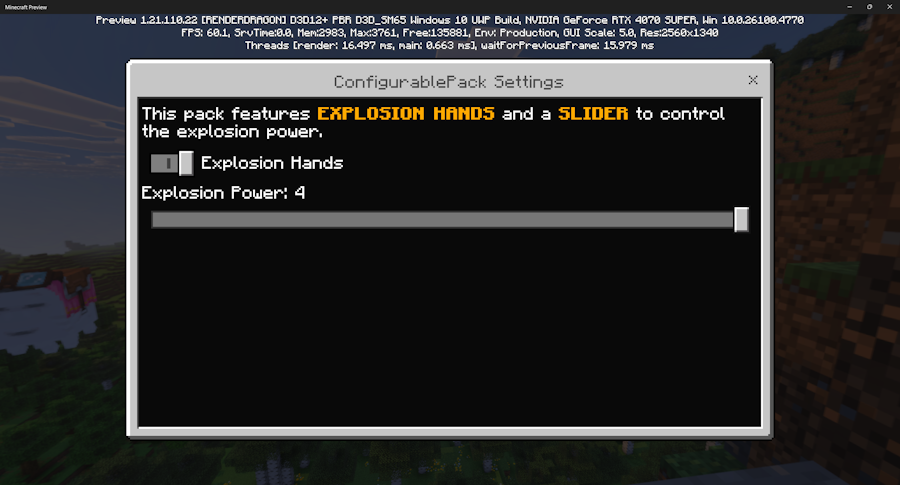
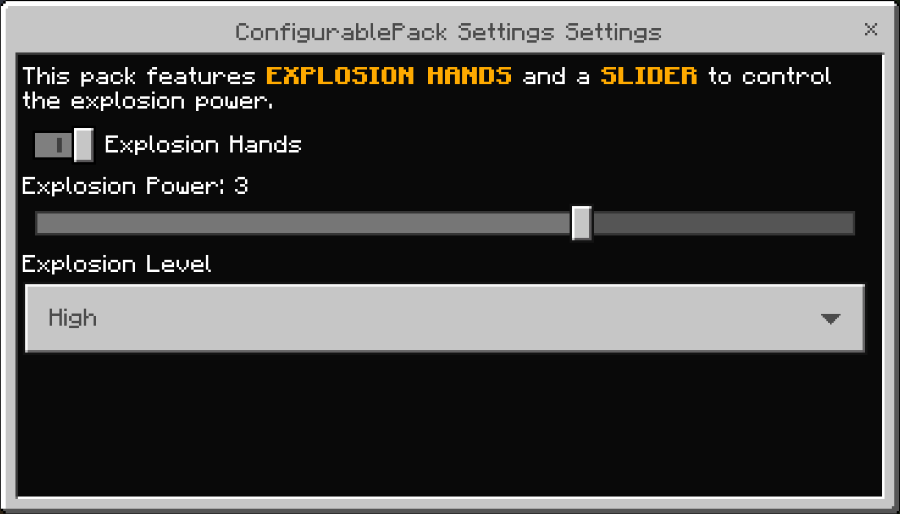
feat: update pack settings doc, add dropdown example and molang queries. (#2040)

diff --git a/creator/Documents/AddOns/CustomPackSettings.md b/creator/Documents/AddOns/CustomPackSettings.md
@@ -12,7 +12,7 @@ ms.date: 05/05/2025
 Many packs in Minecraft present broad gameplay experiences, and it's natural that you might want to let players tailor how that experience functions out in their world. For example, you can imagine a pack that has specific settings for how much treasure is dropped, or the mix of mobs that are spawned, or specific types of assists that might be given. Pack settings provides a consistent "meta-experience" across packs that can help players get just the gameplay experience they are looking for.
 
 > [!NOTE]
-> The pack settings capability is still experimental and subject to change, as of Minecraft preview versions 1.21.110. It may be significantly altered or even removed in future updates.
+> The pack settings capability for behavior packs is still experimental and subject to change, as of Minecraft preview versions 1.21.110. It may be significantly altered or even removed in future updates. Pack settings support for resource packs will be available in the next release.
 
 ### Elements of Custom Pack Settings
 
@@ -25,27 +25,43 @@ The custom pack settings can be applied to both behavior packs and resource pack
 An example settings section looks as follows:
 
 ```json
-[
-    {
-      "type": "label",
-      "text": "This pack features §l§6EXPLOSION HANDS§r and a §l§6SLIDER§r to control the explosion power."
-    },
-    {
-      "type": "toggle",
-      "text": "Explosion Hands",
-      "name": "mypack:explosion_hands",
-      "default": true
-    },
-    {
-      "type": "slider",
-      "text": "Explosion Power",
-      "name": "mypack:explosion_power",
-      "min": 1,
-      "max": 4,
-      "step": 1,
-      "default": 3
-    }
-  ],
+"settings": [
+  {
+    "type": "label",
+    "text": "This pack features §l§6EXPLOSION HANDS§r and a §l§6SLIDER§r to control the explosion power."
+  },
+  {
+    "type": "toggle",
+    "text": "Explosion Hands",
+    "name": "mypack:explosion_hands",
+    "default": true
+  },
+  {
+    "type": "slider",
+    "text": "Explosion Power",
+    "name": "mypack:explosion_power",
+    "min": 1,
+    "max": 4,
+    "step": 1,
+    "default": 3
+  },
+  {
+    "type": "dropdown",
+    "text": "Explosion Level",
+    "name": "mypack:explosion_level",
+    "options": [
+      {
+        "name": "high",
+        "text": "High"
+      },
+      {
+        "name": "low",
+        "text": "Low"
+      }
+    ],
+    "default": "high"
+  }
+]
 ```
 
 This creates a dialog that looks like:
@@ -65,8 +81,7 @@ Pack settings is an ordered list of different controls that you can add that sho
 * The `label` setting type lets you add read-only pieces of display text.
 * The `toggle` adds a true/false boolean "switch". In the sample above, we use that to toggle whether explosion hands should be applied or not.
 * The `slider` setting type lets you pick a number within a range. 
-
-In future iterations, more controls, like a dropdown, may be added.
+* The `dropdown` setting type lets you choose between a fixed number of options.
 
 ### Accessing pack settings in game: Behavior Packs
 
@@ -92,7 +107,13 @@ Within behavior packs, custom pack settings can be accessed via new [`world.getP
 
 ### Accessing pack settings in game: Resource Packs
 
-Although you can mark up a resource pack manifest.json in the same way as a behavior pack manifest.json, there currently isn't a way to *use* the results of those settings in a resource pack. We envision there being a Molang query function to access those settings so you can condition how your models, animations, particle behavior, and render controller behavior can be dynamic with respect to different resource pack settings.
+You can define custom settings in a resource pack’s manifest.json just as you would in a behavior pack. These settings can be accessed using Molang, allowing you to dynamically adjust models, animations, particles, and render controllers based on resource pack settings.
+
+Three new Molang queries will can be used to access pack settings:
+
+- `query.get_pack_setting('mypack:explosion_power')` the value of a slider
+- `query.is_pack_setting_enabled('mypack:explosion_hands')` check if toggle is enabled
+- `query.is_pack_setting_selected('mypack:explosion_level', 'high')` if a dropdown option is selected
 
 Keep in mind that [Subpacks](./../UtilizingSubpacks.md) also can come with a singular slider setting that can configure which sets of files load for a resource pack. Configuring a resource pack via a subpack slider remains a great choice for certain types of customizations (e.g., scaling the resources that get loaded based on performance tier of the device).
 
